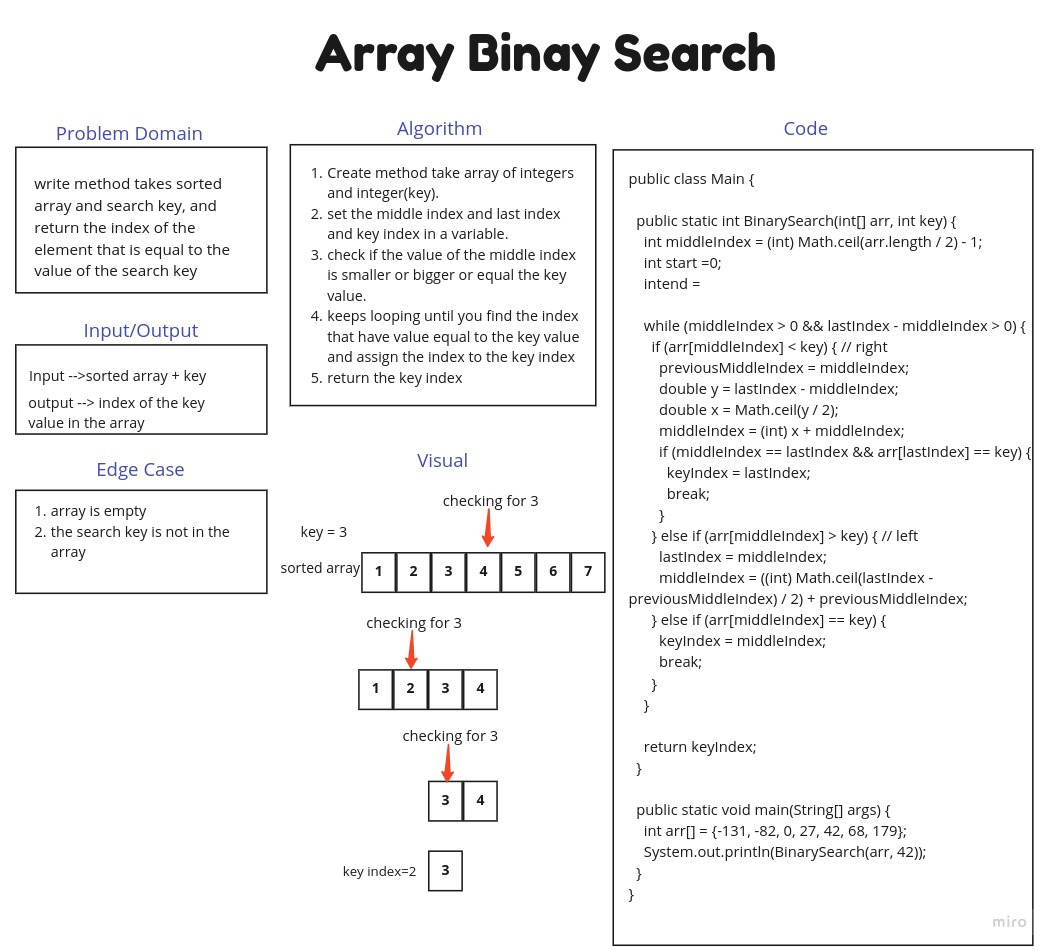
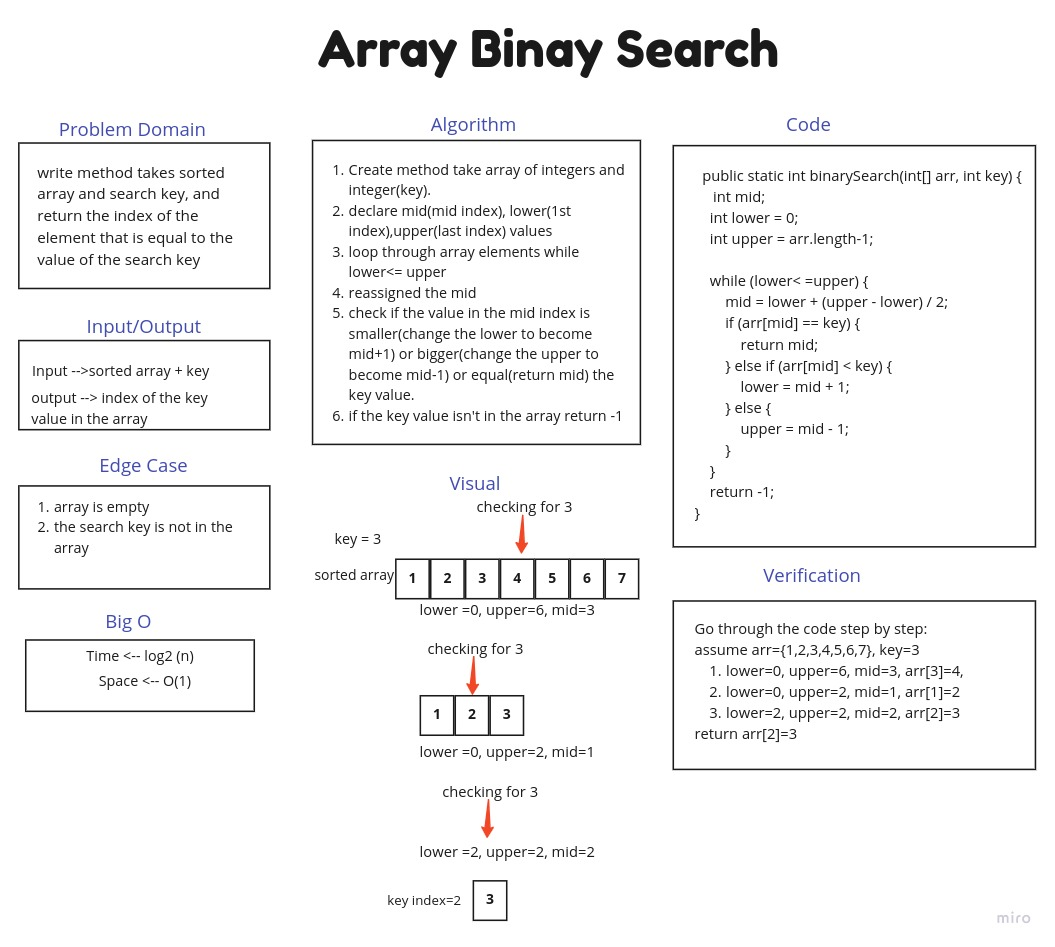
array-binary-search

diff --git a/java/code_challenges/array-binary-search/README.md b/java/code_challenges/array-binary-search/README.md
@@ -5,3 +5,9 @@ a method takes sorted array and search key, and return the index of the element 
 ## Whiteboard Process
 
 ![array-binary-search](java/code_challenges/array-binary-search/assets/array-binary-search.jpg)
+
+## Approach & Efficiency
+
+- The big O notion: 
+Time : log2(n) 
+Space : O(1)
